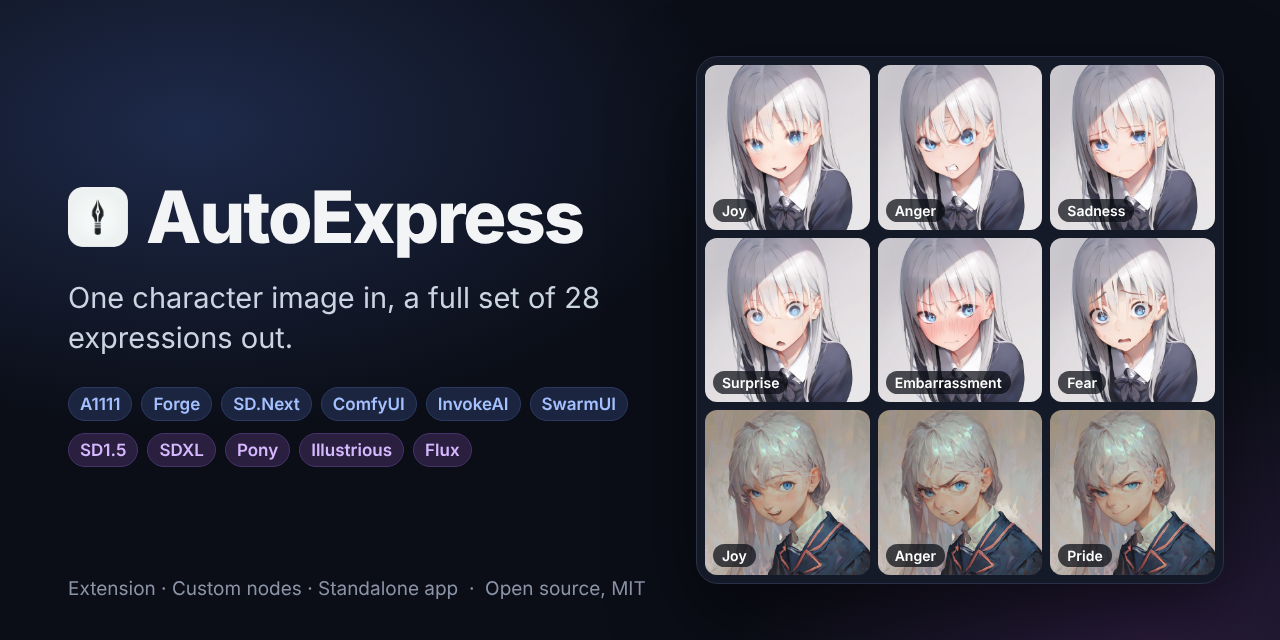
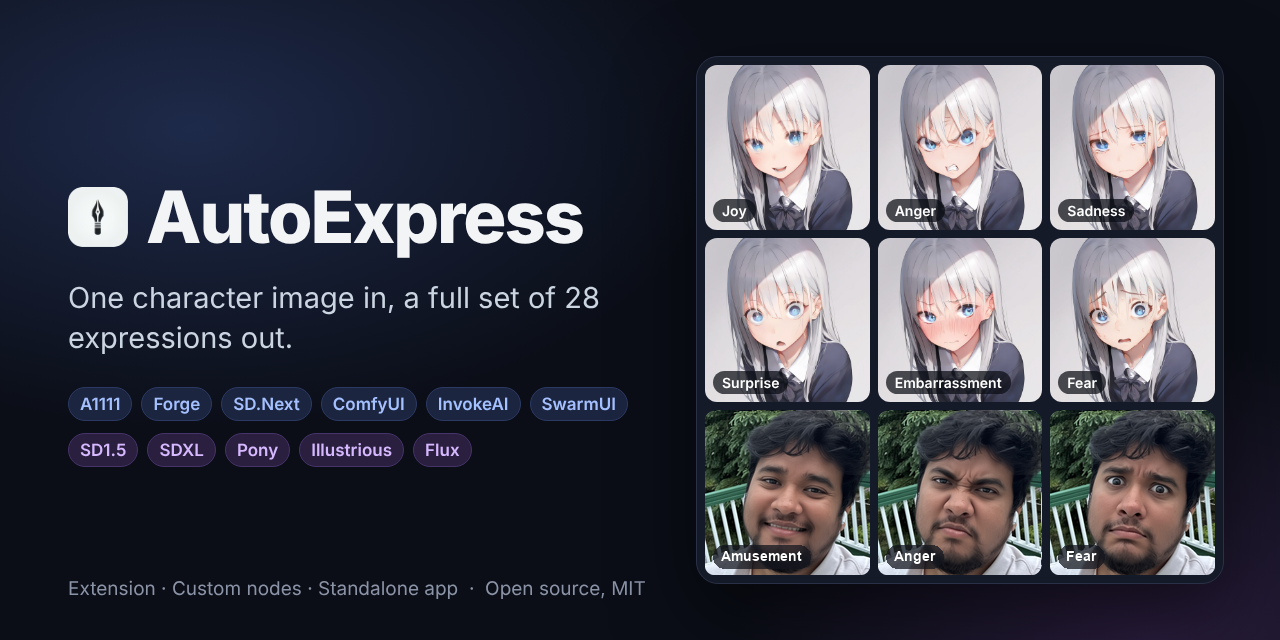
Add the photo example to the README and social preview (#32)
* Add the photo example at the 0.07 photo intensity to the README and social preview

* Use the 0.1 photo intensity in the README

* Describe the photo setup from the edit mode update

* Use the Qwen-Image-Edit-2511 photo renders in the README and social preview

The photo example and the social preview's photo row now show the
natural 40-step renders with the face pasted back: amusement, anger,
sadness, fear and disgust.

Changed region(s): [[0.5312, 0.625, 0.9688, 0.9062]]

diff --git a/README.md b/README.md
@@ -66,6 +66,12 @@ Each sheet is one input image and eight of its expressions, generated at 1024×1
 
 Every run can save a labelled sprite sheet like these next to the individual images.
 
+Photos work too. On a real face AutoExpress keeps the change natural, so it still looks like the same person. This set was made from a selfie with the [instruction edit mode](#instruction-edit-mode-comfyui) (Qwen-Image-Edit-2511, 40 steps) at the photo default [expression intensity](#expression-intensity) of 0.5, with only the edited face pasted back onto the original photo:
+
+<p align="center">
+  <a href=".github/readme/sheet_photo.jpg"><img src=".github/readme/sheet_photo.jpg" alt="A selfie and its amusement, anger, sadness, fear and disgust expressions" width="100%"></a>
+</p>
+
 ---
 
 # Install
@@ -105,7 +111,7 @@ It needs about 24 GB of VRAM (16 GB cards work with `--lowvram`, several times s
 
 # Expression intensity
 
-One slider, from 0 to 1, sets how far each expression is pushed. 0.5 is the classic AutoExpress strength. Real faces look uncanny well before drawn ones do, so photos need far less.
+One slider, from 0 to 1, sets how far each expression is pushed. 0.5 is the classic AutoExpress strength. Photos have their own scale, gentler than the one for drawn styles, so 0.5 is a natural strength for both.
 
 - **Face inpainting** (ADetailer / FaceDetailer): the slider scales the expression prompt's weight, the [expression LoRA](#expression-loras) strength and the denoising strength. At 0 the LoRA is off.
 - **Instruction edit** (Qwen-Image-Edit): the slider picks subtler or stronger wording and lowers the denoise, so low values keep more of the input.
@@ -115,7 +121,7 @@ Each prompt style has its own default, used when you leave the slider on **auto*
 | Images | Recommended |
 | --- | --- |
 | Anime and other drawn styles (Danbooru, Pony, Illustrious) | Face inpainting at 0.5 with the expression LoRA on |
-| Photos (SDXL / realistic, Flux) | Instruction edit at 0.07. Real faces look uncanny even at 0.1, so keep it very low. |
+| Photos (SDXL / realistic, Flux) | Instruction edit at 0.5. Photos get just the expression's name plus a note to keep a realistic photo with natural skin color, and the slider only sets how much of the input is kept. |
 
 The slider is the **Expression intensity** control in the standalone app and the `intensity` input on the AutoExpress ComfyUI nodes, where -1 means the default.
 
